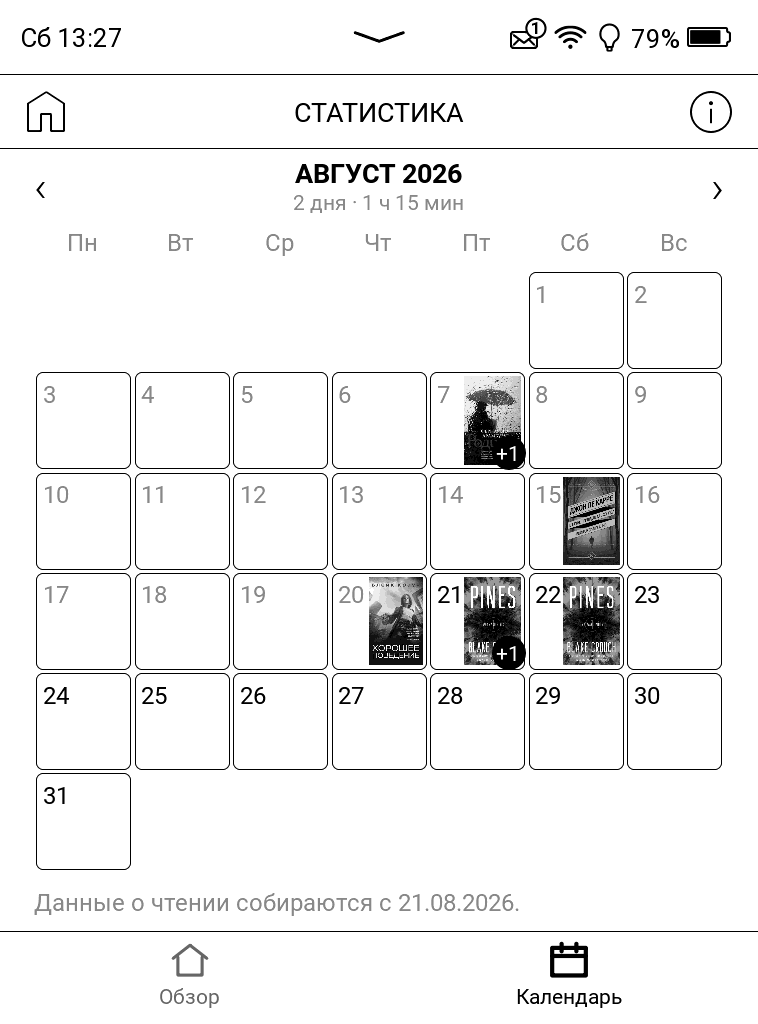
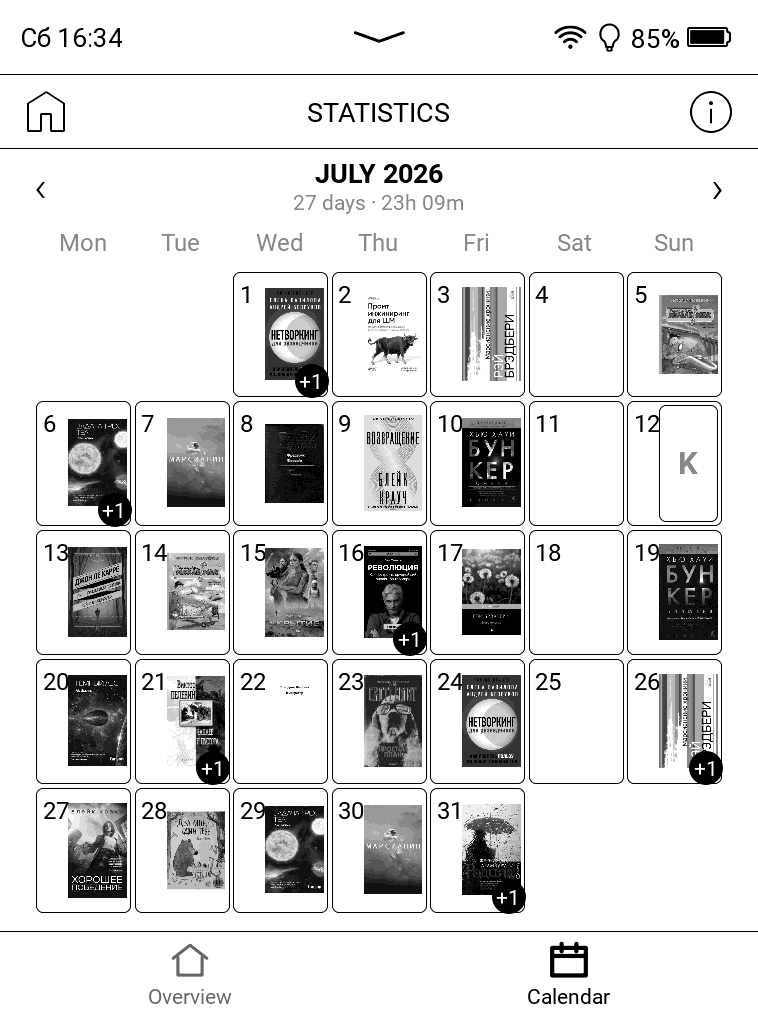
docs: new screenshots, in English and with a history behind them
The old pair was Russian and showed a calendar with two days on it, which
demonstrates nothing about a calendar. These are shot on a PB629 in English,
with a year of reading behind them, so the month reads as a month. A line under
them says the history was filled in — the figures are a demonstration, not a
claim.

The launcher shot goes: it was Russian too, and the install steps describe the
tile well enough without a picture of it.

diff --git a/README.md b/README.md
@@ -9,6 +9,9 @@ there.
 |---|---|
 | <img src="docs/screenshots/overview.png" width="380" alt="Overview: the current book with cover and progress, three figures, and the library ring"> | <img src="docs/screenshots/calendar.png" width="380" alt="Calendar: a month grid with book covers on the days they were read"> |
 
+<sup>Shot on a PB629 with a filled-in history, so the calendar shows what a used
+month looks like rather than a first day of tracking.</sup>
+
 > Developed and tested on a **PocketBook Verse (PB629), firmware
 > U629.6.10.1461**. Other Allwinner **B288/B300** readers on Qt 6.8 firmware
 > should work the same way, but none has been tried — reports welcome.
@@ -78,8 +81,6 @@ update*. There is no background check and no other host is ever contacted.
    unpack it.
 2. Copy `PocketBookStatistics.app` to `applications/` on the reader over USB.
 3. Eject, open the app once, then reboot so the custom launcher icon appears.
-
-<img src="docs/screenshots/launcher.png" width="380" alt="The reader's home screen with a Statistics tile in the bottom row">
 
 The tile is labelled in the reader's language ("Statistics", "Статистика",
 "Statistik", …) — it says what it does, like the firmware's own tiles. First
